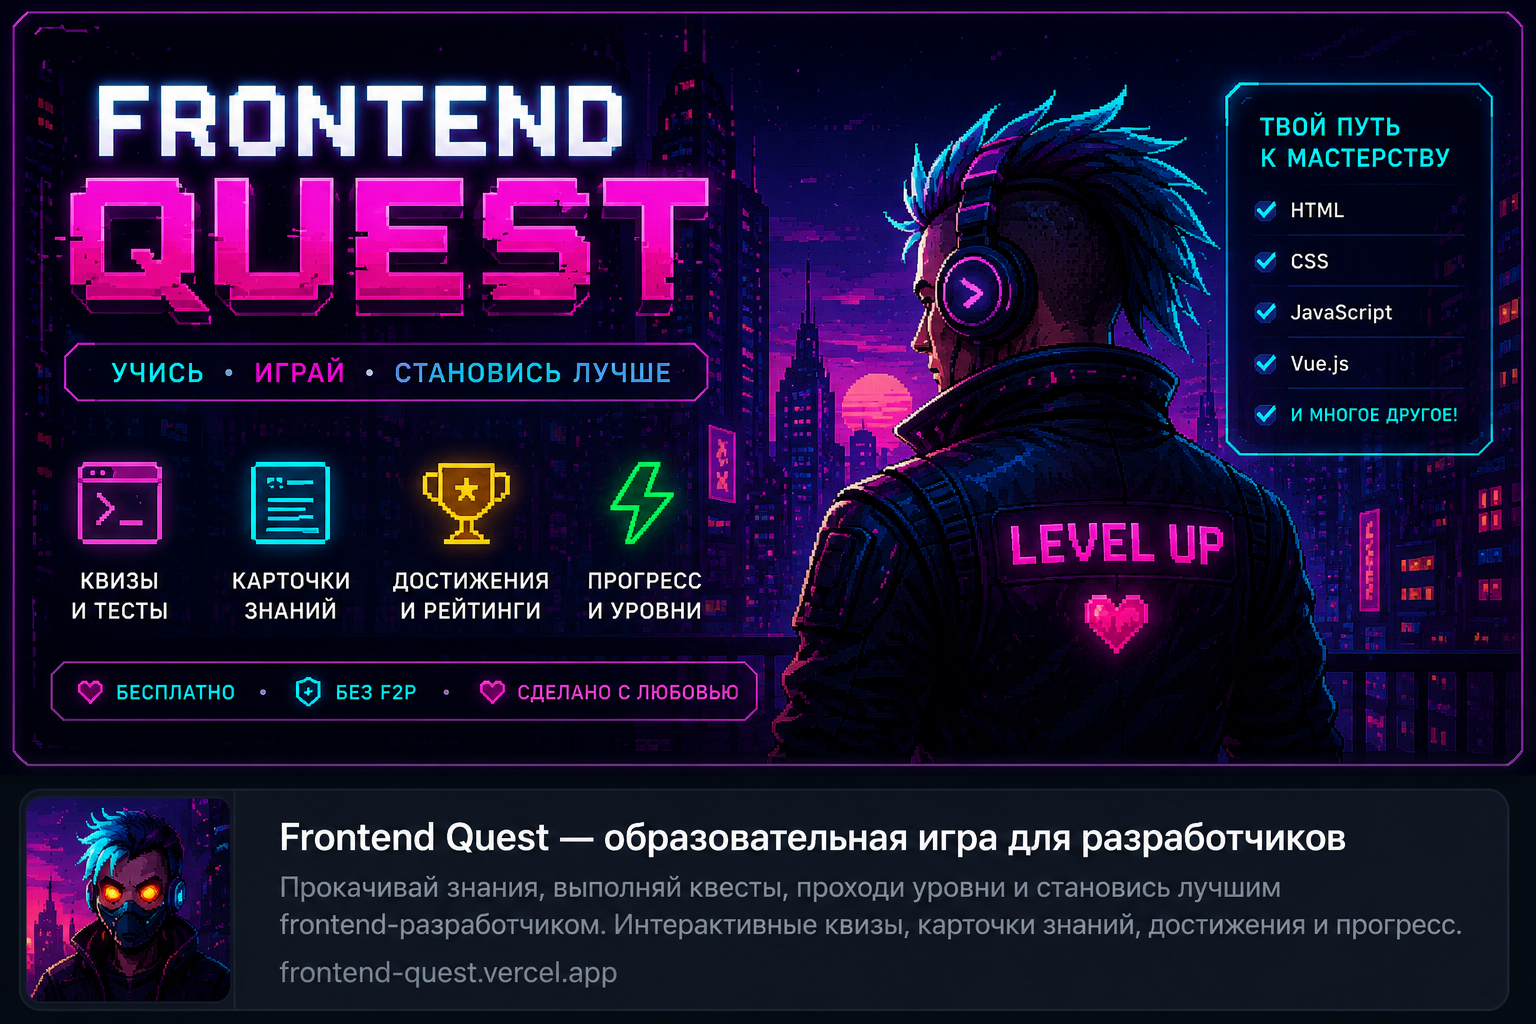
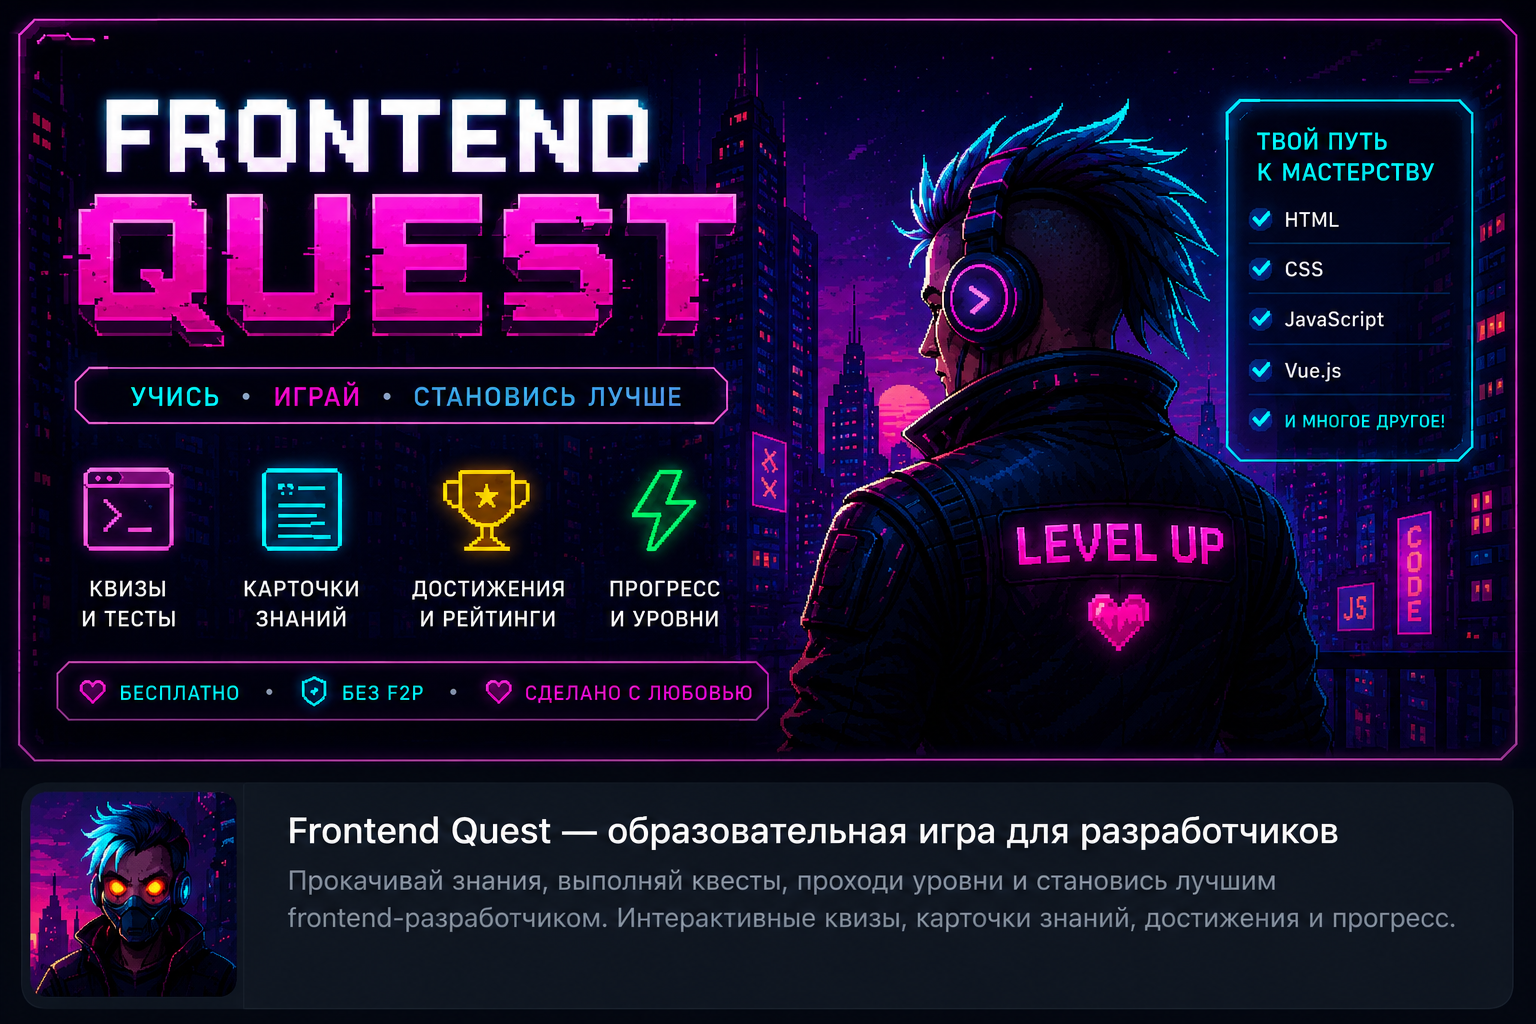
feat: polish social sharing og-image

diff --git a/public/404.html b/public/404.html
@@ -1,0 +1,19 @@
+<!doctype html>
+<html lang="ru">
+  <head>
+    <meta charset="UTF-8" />
+    <meta name="viewport" content="width=device-width, initial-scale=1.0" />
+    <title>Frontend Quest</title>
+    <script>
+      const basePath = '/frontend-quest'
+      const routePath = window.location.pathname.startsWith(basePath)
+        ? window.location.pathname.slice(basePath.length)
+        : window.location.pathname
+      const route = `${routePath || '/'}${window.location.search}${window.location.hash}`
+
+      window.sessionStorage.setItem('frontend-quest:redirect', route)
+      window.location.replace(`${basePath}/`)
+    </script>
+  </head>
+  <body></body>
+</html>

diff --git a/src/router/index.ts b/src/router/index.ts
@@ -8,7 +8,7 @@ import ProfileView from '../views/ProfileView.vue'
 import SettingsView from '../views/SettingsView.vue'
 
 const router = createRouter({
-  history: createWebHistory(),
+  history: createWebHistory(import.meta.env.BASE_URL),
   routes: [
     {
       path: '/',
@@ -47,5 +47,14 @@ const router = createRouter({
     },
   ],
 })
+
+if (typeof window !== 'undefined') {
+  const redirectRoute = window.sessionStorage.getItem('frontend-quest:redirect')
+
+  if (redirectRoute) {
+    window.sessionStorage.removeItem('frontend-quest:redirect')
+    void router.replace(redirectRoute)
+  }
+}
 
 export default router